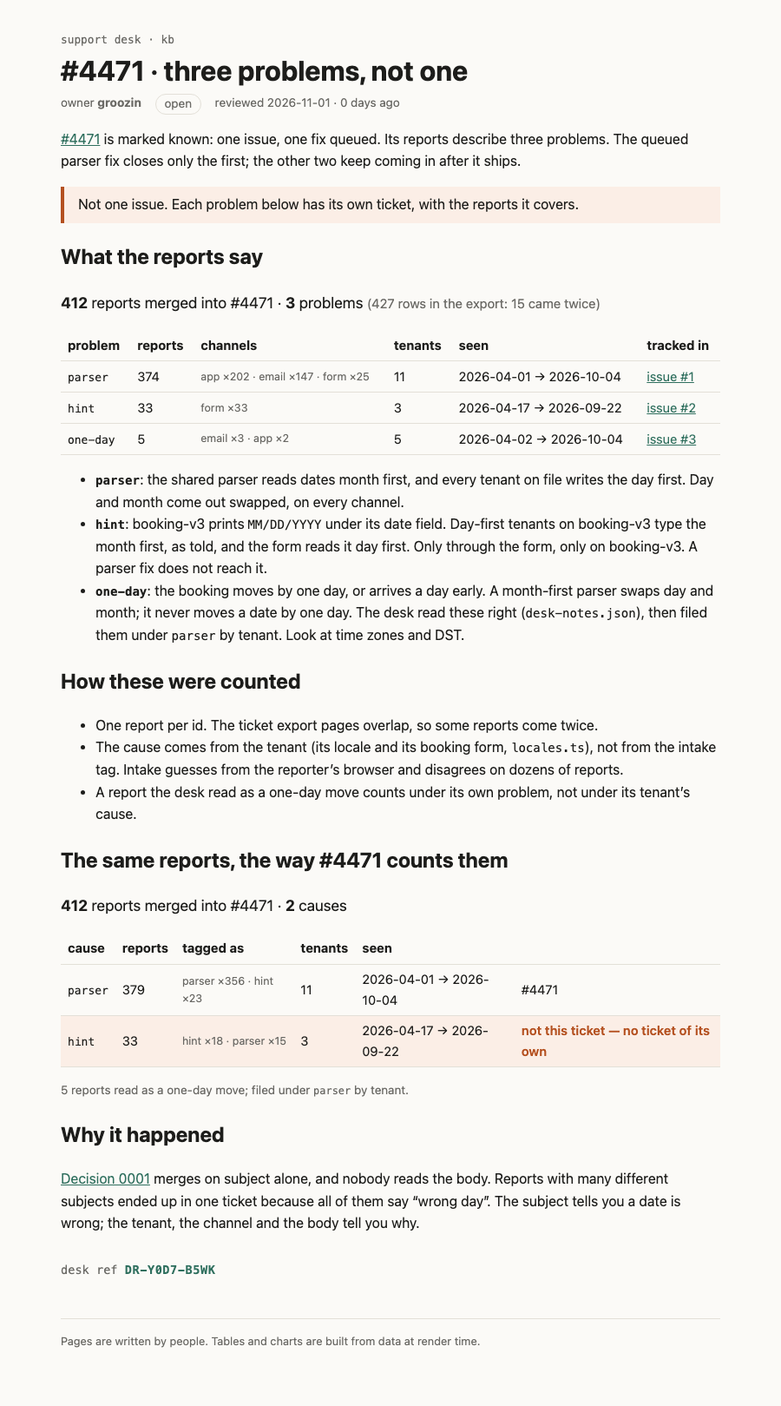
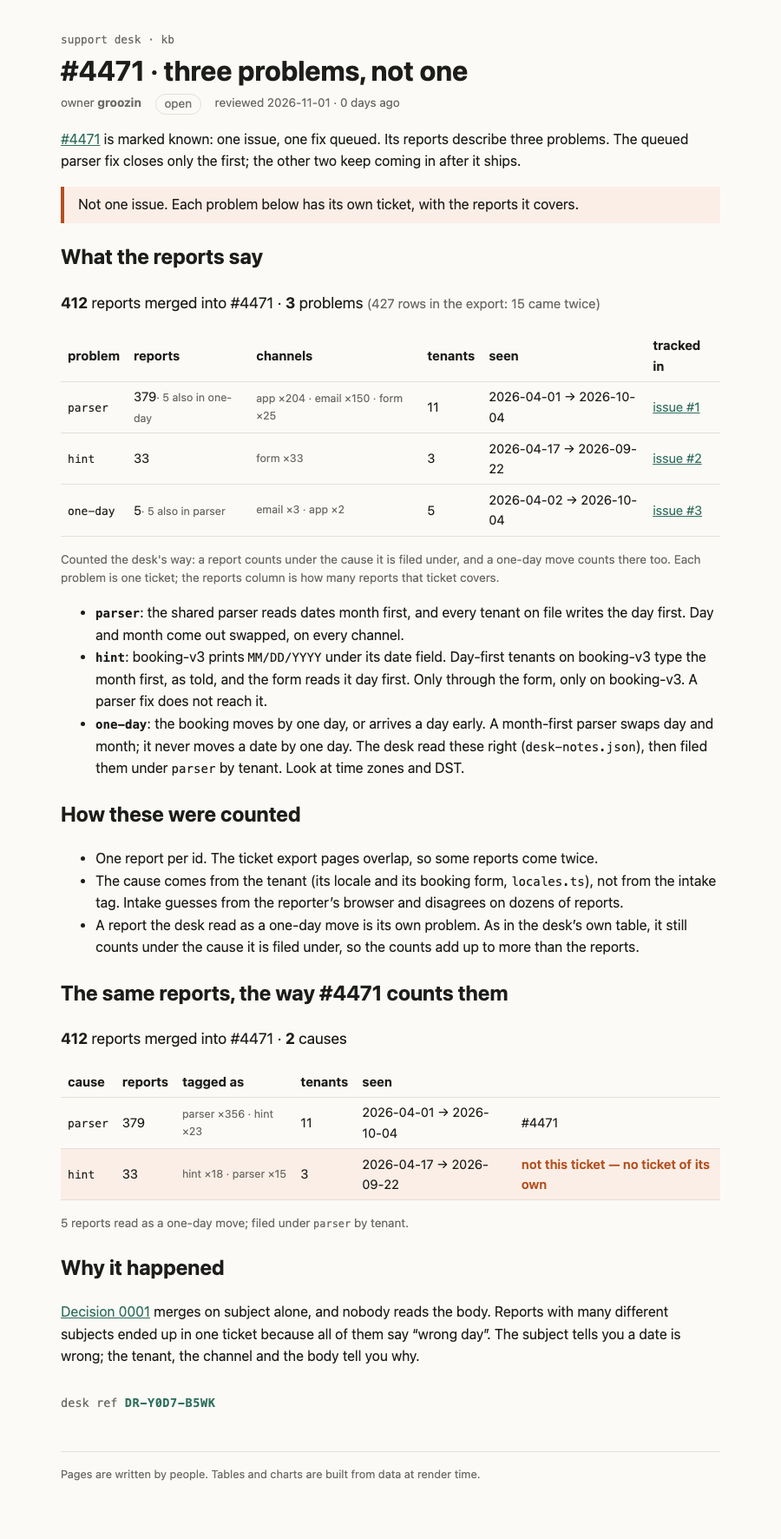
Count #4471 problems the desk's way
One-day moves count under the cause they are filed under, as in the
desk's cause table: parser 379, hint 33, one-day 5.

diff --git a/build/kb/incidents/4471-problems.html b/build/kb/incidents/4471-problems.html
@@ -9,11 +9,11 @@
 		<link href="../../_app/immutable/chunks/CptVIHXj.js" rel="modulepreload">
 		<link href="../../_app/immutable/chunks/CHfFqfNT.js" rel="modulepreload">
 		<link href="../../_app/immutable/chunks/DQG8lHS1.js" rel="modulepreload">
-		<link href="../../_app/immutable/entry/app.Dz3oU8I0.js" rel="modulepreload">
+		<link href="../../_app/immutable/entry/app.CgjuMFff.js" rel="modulepreload">
 		<link href="../../_app/immutable/nodes/0.Izv2btRW.js" rel="modulepreload">
 		<link href="../../_app/immutable/chunks/DK3Fl9T5.js" rel="modulepreload">
-		<link href="../../_app/immutable/nodes/5.UaG6pN5g.js" rel="modulepreload">
-		<link href="../../_app/immutable/chunks/i8rQyJho.js" rel="modulepreload">
+		<link href="../../_app/immutable/nodes/5.DzETtDwc.js" rel="modulepreload">
+		<link href="../../_app/immutable/chunks/M1KnXfoc.js" rel="modulepreload">
 		<link href="../../_app/immutable/chunks/DkoUumqI.js" rel="modulepreload">
 		<link href="../../_app/immutable/chunks/gCVyuZ4b.js" rel="modulepreload">
 		<link href="../../_app/immutable/chunks/DcZ9TEUN.js" rel="modulepreload">
@@ -25,28 +25,30 @@
   </head>
   <body data-sveltekit-preload-data="hover">
     <div style="display: contents"><!--[--><!--[--><!--[0--><!--[--><!--[--><!--[-1--><!--[--><div class="kb svelte-e2jw2j"><header><a class="crumb svelte-e2jw2j" href="/kb">support desk · kb</a> <h1 class="svelte-e2jw2j">#4471 · three problems, not one</h1> <p class="meta svelte-e2jw2j"><span>owner <b>groozin</b></span> <span class="status open svelte-e2jw2j">open</span> <span class="svelte-e2jw2j">reviewed 2026-11-01 · 0 days ago</span></p></header> <!--[-1--><!--]--> <main><p><a href="/kb/incidents/4471">#4471</a> is marked known: one issue, one fix queued. Its reports describe three
-problems. The queued parser fix closes only the first; the other two keep coming in after it ships.</p> <aside class="warn svelte-17bri61"><!---->Not one issue. Each problem below has its own ticket, with the reports it covers.<!----></aside><!----> <h2>What the reports say</h2> <p class="sum svelte-1op6c6"><strong>412</strong> reports merged into #4471 · <strong>3</strong> problems <!--[0--><span class="muted svelte-1op6c6">(427 rows in the export: 15 came twice)</span><!--]--></p> <table><thead><tr><th>problem</th><th>reports</th><th>channels</th><th>tenants</th><th>seen</th><th>tracked in</th></tr></thead><tbody><!--[--><tr><td><code>parser</code></td><td>374</td><td class="muted svelte-1op6c6">app ×202 · email ×147 · form ×25</td><td>11</td><td>2026-04-01 → 2026-10-04</td><td><!--[0--><a href="https://github.com/groozin/s01e03-what-it-shows/issues/1">issue #1</a><!--]--></td></tr><tr><td><code>hint</code></td><td>33</td><td class="muted svelte-1op6c6">form ×33</td><td>3</td><td>2026-04-17 → 2026-09-22</td><td><!--[0--><a href="https://github.com/groozin/s01e03-what-it-shows/issues/2">issue #2</a><!--]--></td></tr><tr><td><code>one-day</code></td><td>5</td><td class="muted svelte-1op6c6">email ×3 · app ×2</td><td>5</td><td>2026-04-02 → 2026-10-04</td><td><!--[0--><a href="https://github.com/groozin/s01e03-what-it-shows/issues/3">issue #3</a><!--]--></td></tr><!--]--></tbody></table><!----> <ul><li><strong><code>parser</code></strong>: the shared parser reads dates month first, and every tenant on file writes the
+problems. The queued parser fix closes only the first; the other two keep coming in after it ships.</p> <aside class="warn svelte-17bri61"><!---->Not one issue. Each problem below has its own ticket, with the reports it covers.<!----></aside><!----> <h2>What the reports say</h2> <p class="sum svelte-1op6c6"><strong>412</strong> reports merged into #4471 · <strong>3</strong> problems <!--[0--><span class="muted svelte-1op6c6">(427 rows in the export: 15 came twice)</span><!--]--></p> <table><thead><tr><th>problem</th><th>reports</th><th>channels</th><th>tenants</th><th>seen</th><th>tracked in</th></tr></thead><tbody><!--[--><tr><td><code>parser</code></td><td>379<!--[0--><span class="muted svelte-1op6c6">· 5 also in one-day</span><!--]--></td><td class="muted svelte-1op6c6">app ×204 · email ×150 · form ×25</td><td>11</td><td>2026-04-01 → 2026-10-04</td><td><!--[0--><a href="https://github.com/groozin/s01e03-what-it-shows/issues/1">issue #1</a><!--]--></td></tr><tr><td><code>hint</code></td><td>33<!--[-1--><!--]--></td><td class="muted svelte-1op6c6">form ×33</td><td>3</td><td>2026-04-17 → 2026-09-22</td><td><!--[0--><a href="https://github.com/groozin/s01e03-what-it-shows/issues/2">issue #2</a><!--]--></td></tr><tr><td><code>one-day</code></td><td>5<!--[0--><span class="muted svelte-1op6c6">· 5 also in parser</span><!--]--></td><td class="muted svelte-1op6c6">email ×3 · app ×2</td><td>5</td><td>2026-04-02 → 2026-10-04</td><td><!--[0--><a href="https://github.com/groozin/s01e03-what-it-shows/issues/3">issue #3</a><!--]--></td></tr><!--]--></tbody></table> <p class="muted svelte-1op6c6">Counted the desk's way: a report counts under the cause it is filed under, and a one-day move counts there
+  too. Each problem is one ticket; the reports column is how many reports that ticket covers.</p><!----> <ul><li><strong><code>parser</code></strong>: the shared parser reads dates month first, and every tenant on file writes the
 day first. Day and month come out swapped, on every channel.</li> <li><strong><code>hint</code></strong>: booking-v3 prints <code>MM/DD/YYYY</code> under its date field. Day-first tenants on booking-v3
 type the month first, as told, and the form reads it day first. Only through the form, only on
 booking-v3. A parser fix does not reach it.</li> <li><strong><code>one-day</code></strong>: the booking moves by one day, or arrives a day early. A month-first parser swaps
 day and month; it never moves a date by one day. The desk read these right
 (<code>desk-notes.json</code>), then filed them under <code>parser</code> by tenant. Look at time zones and DST.</li></ul> <h2>How these were counted</h2> <ul><li>One report per id. The ticket export pages overlap, so some reports come twice.</li> <li>The cause comes from the tenant (its locale and its booking form, <code>locales.ts</code>), not from the
-intake tag. Intake guesses from the reporter’s browser and disagrees on dozens of reports.</li> <li>A report the desk read as a one-day move counts under its own problem, not under its tenant’s cause.</li></ul> <h2>The same reports, the way #4471 counts them</h2> <p class="sum svelte-12oyimm"><strong>412</strong> reports merged into #4471 · <strong>2</strong> causes</p> <table><thead><tr><th>cause</th><th>reports</th><th>tagged as</th><th>tenants</th><th>seen</th><th></th></tr></thead><tbody><!--[--><tr class="svelte-12oyimm"><td class="svelte-12oyimm"><code>parser</code></td><td class="svelte-12oyimm">379</td><td class="tags svelte-12oyimm">parser ×356 · hint ×23</td><td class="svelte-12oyimm">11</td><td class="svelte-12oyimm">2026-04-01 → 2026-10-04</td><td class="svelte-12oyimm">#4471</td></tr><tr class="svelte-12oyimm wrong"><td class="svelte-12oyimm"><code>hint</code></td><td class="svelte-12oyimm">33</td><td class="tags svelte-12oyimm">hint ×18 · parser ×15</td><td class="svelte-12oyimm">3</td><td class="svelte-12oyimm">2026-04-17 → 2026-09-22</td><td class="svelte-12oyimm">not this ticket — no ticket of its own</td></tr><!--]--></tbody></table> <!--[--><!--[0--><p class="note svelte-12oyimm">5 reports read as a one-day move; filed under <code>parser</code> by tenant.</p><!--]--><!--[-1--><!--]--><!--]--><!----> <h2>Why it happened</h2> <p><a href="/kb/decisions/0001-dedupe-by-subject">Decision 0001</a> merges on subject alone, and nobody reads the
+intake tag. Intake guesses from the reporter’s browser and disagrees on dozens of reports.</li> <li>A report the desk read as a one-day move is its own problem. As in the desk’s own table, it still
+counts under the cause it is filed under, so the counts add up to more than the reports.</li></ul> <h2>The same reports, the way #4471 counts them</h2> <p class="sum svelte-12oyimm"><strong>412</strong> reports merged into #4471 · <strong>2</strong> causes</p> <table><thead><tr><th>cause</th><th>reports</th><th>tagged as</th><th>tenants</th><th>seen</th><th></th></tr></thead><tbody><!--[--><tr class="svelte-12oyimm"><td class="svelte-12oyimm"><code>parser</code></td><td class="svelte-12oyimm">379</td><td class="tags svelte-12oyimm">parser ×356 · hint ×23</td><td class="svelte-12oyimm">11</td><td class="svelte-12oyimm">2026-04-01 → 2026-10-04</td><td class="svelte-12oyimm">#4471</td></tr><tr class="svelte-12oyimm wrong"><td class="svelte-12oyimm"><code>hint</code></td><td class="svelte-12oyimm">33</td><td class="tags svelte-12oyimm">hint ×18 · parser ×15</td><td class="svelte-12oyimm">3</td><td class="svelte-12oyimm">2026-04-17 → 2026-09-22</td><td class="svelte-12oyimm">not this ticket — no ticket of its own</td></tr><!--]--></tbody></table> <!--[--><!--[0--><p class="note svelte-12oyimm">5 reports read as a one-day move; filed under <code>parser</code> by tenant.</p><!--]--><!--[-1--><!--]--><!--]--><!----> <h2>Why it happened</h2> <p><a href="/kb/decisions/0001-dedupe-by-subject">Decision 0001</a> merges on subject alone, and nobody reads the
 body. Reports with many different subjects ended up in one ticket because all of them say “wrong day”. The
 subject tells you a date is wrong; the tenant, the channel and the body tell you why.</p> <!--[0--><p class="stamp svelte-1280m42">desk ref <b class="svelte-1280m42">DR-Y0D7-B5WK</b></p><!--]--><!----><!----></main> <footer class="svelte-e2jw2j">Pages are written by people. Tables and charts are built from data at render time.</footer></div><!--]--><!--]--><!--]--><!----><!--]--><!--]--><!--]--><!----> <!--[-1--><!--]--><!--]-->
 			
 			<script>
 				{
-					__sveltekit_1n211x1 = {
+					__sveltekit_up5isf = {
 						base: new URL("../..", location).pathname.slice(0, -1),
-						version: "1793573833173"
+						version: "1793573920581"
 					};
 
 					const element = document.currentScript.parentElement;
 
 					import("../../_app/immutable/entry/start.D1HzdfF7.js").then(async (kit) => {
-						kit.init(__sveltekit_1n211x1);
-						const app = await import("../../_app/immutable/entry/app.Dz3oU8I0.js");
+						kit.init(__sveltekit_up5isf);
+						const app = await import("../../_app/immutable/entry/app.CgjuMFff.js");
 						kit.start(app, element, {
 							node_ids: [0, 5],
 							data: [null,null],

diff --git a/build/_app/immutable/chunks/M1KnXfoc.js b/build/_app/immutable/chunks/M1KnXfoc.js
@@ -1,0 +1,12 @@
+import{t as e}from"./DK3Fl9T5.js";import{E as t,F as n,H as r,I as i,K as a,L as o,N as s,O as c,R as l,S as u,T as d,U as f,W as p,_ as m,c as h,h as g,k as _,n as v,q as y,r as b,t as x,w as S}from"./CHfFqfNT.js";import{t as C}from"./DkoUumqI.js";import{n as w,r as T,t as E}from"./gCVyuZ4b.js";import{a as D,l as O,r as k,t as A}from"./DcZ9TEUN.js";function j(e,t){let n=t.map(e=>e.receivedAt.slice(0,10)).sort();return{problem:e,reports:t,tenants:new Set(t.map(e=>e.tenant)).size,channels:t.reduce((e,t)=>({...e,[t.channel]:(e[t.channel]??0)+1}),{}),firstSeen:n[0],lastSeen:n[n.length-1]}}function M(e,t,n){let r=e.filter(e=>n.includes(e.id)),i=D(e,t).map(e=>({...j(e.cause,e.reports),alsoIn:[{problem:`one-day`,count:e.reports.filter(e=>n.includes(e.id)).length}]})),a=r.length?[{...j(`one-day`,r),alsoIn:i.map(e=>({problem:e.problem,count:e.alsoIn[0].count}))}]:[];return[...i,...a].map(e=>({...e,alsoIn:e.alsoIn.filter(e=>e.count>0)}))}var N=t(`<span class="muted svelte-1op6c6"> </span>`),P=t(`<a> </a>`),F=t(`<tr><td><code> </code></td><td> <!></td><td class="muted svelte-1op6c6"> </td><td> </td><td> </td><td><!></td></tr>`),I=t(`<p class="sum svelte-1op6c6"><strong> </strong> <strong> </strong> <!></p> <table><thead><tr><th>problem</th><th>reports</th><th>channels</th><th>tenants</th><th>seen</th><th>tracked in</th></tr></thead><tbody></tbody></table> <p class="muted svelte-1op6c6">Counted the desk's way: a report counts under the cause it is filed under, and a one-day move counts there
+  too. Each problem is one ticket; the reports column is how many reports that ticket covers.</p>`,1);function L(e,t){p(t,!0);let d=v(t,`issues`,19,()=>({})),b=r(()=>T.filter(e=>e.mergedInto===t.ticket)),x=r(()=>O(_(b))),C=r(()=>M(_(x),k,w.oneDayMove)),E=e=>Object.entries(e.channels).sort((e,t)=>t[1]-e[1]).map(([e,t])=>`${e} ×${t}`).join(` · `);var D=I(),A=i(D),j=n(A),L=o(j,!0),R=l(j),z=l(R),B=o(z,!0),V=l(z),H=l(V),U=e=>{var t=N(),n=o(t);s(()=>u(n,`(${_(b).length??``} rows in the export: ${_(b).length-_(x).length} came twice)`)),S(e,t)};m(H,e=>{_(b).length!==_(x).length&&e(U)}),y(A);var W=l(A,2),G=l(n(W));g(G,21,()=>_(C),e=>e.problem,(e,t)=>{var r=F(),i=n(r),a=n(i),f=o(a,!0);y(i);var p=l(i),g=n(p,!0),v=l(g),b=e=>{var n=N(),r=o(n);s(e=>u(r,`· ${e??``}`),[()=>_(t).alsoIn.map(e=>`${e.count} also in ${e.problem}`).join(`, `)]),S(e,n)};m(v,e=>{_(t).alsoIn.length&&e(b)}),y(p);var x=l(p),C=o(x,!0),w=l(x),T=o(w,!0),D=l(w),O=o(D),k=l(D),A=n(k),j=e=>{var n=P(),r=o(n,!0);s(e=>{h(n,`href`,d()[_(t).problem]),u(r,e)},[()=>d()[_(t).problem]?.replace(/^.*\/issues\//,`issue #`)]),S(e,n)},M=e=>{var t=c(`—`);S(e,t)};m(A,e=>{d()[_(t).problem]?e(j):e(M,-1)}),y(k),y(r),s(e=>{u(f,_(t).problem),u(g,_(t).reports.length),u(C,e),u(T,_(t).tenants),u(O,`${_(t).firstSeen??``} → ${_(t).lastSeen??``}`)},[()=>E(_(t))]),S(e,r)}),y(G),y(W),a(2),s(()=>{u(L,_(x).length),u(R,` reports merged into #${t.ticket??``} · `),u(B,_(C).length),u(V,` ${_(C).length===1?`problem`:`problems`} `)}),S(e,D),f()}var R=`0123456789ABCDEFGHJKMNPQRSTVWXYZ`;function z(e,t){let n=t>>>0;for(let t=0;t<e.length;t++)n^=e.charCodeAt(t),n=Math.imul(n,16777619)>>>0;return n}function B(e){let t=e.trim(),n=z(t,2166136261),r=z(t,2654435769),i=BigInt(n)<<8n|BigInt(r&255),a=``;for(let e=0;e<8;e++)a=R[Number(i&31n)]+a,i>>=5n;return`DR-${a.slice(0,4)}-${a.slice(4)}`}var V=t(`<p class="stamp svelte-1280m42">desk ref <b class="svelte-1280m42"> </b></p>`),H=t(`<p class="stamp missing svelte-1280m42">no desk ref: this page isn't signed (no <code>signature</code> in its frontmatter)</p>`);function U(e,t){p(t,!0);let a=r(()=>t.signature?B(t.signature):null);var c=d(),h=i(c),g=e=>{var t=V(),r=l(n(t)),i=o(r,!0);y(t),s(()=>u(i,_(a))),S(e,t)},v=e=>{var t=H();S(e,t)};m(h,e=>{_(a)?e(g):e(v,-1)}),S(e,c),f()}var W=e({default:()=>$,metadata:()=>G}),G={layout:`runbook`,title:`#4471 · three problems, not one`,owner:`groozin`,status:`open`,reviewed:`2026-11-01T00:00:00.000Z`,signature:`groozin`},{layout:K,title:q,owner:J,status:Y,reviewed:X,signature:Z}=G,Q=t(`<p><a href="/kb/incidents/4471">#4471</a> is marked known: one issue, one fix queued. Its reports describe three
+problems. The queued parser fix closes only the first; the other two keep coming in after it ships.</p> <!> <h2>What the reports say</h2> <!> <ul><li><strong><code>parser</code></strong>: the shared parser reads dates month first, and every tenant on file writes the
+day first. Day and month come out swapped, on every channel.</li> <li><strong><code>hint</code></strong>: booking-v3 prints <code>MM/DD/YYYY</code> under its date field. Day-first tenants on booking-v3
+type the month first, as told, and the form reads it day first. Only through the form, only on
+booking-v3. A parser fix does not reach it.</li> <li><strong><code>one-day</code></strong>: the booking moves by one day, or arrives a day early. A month-first parser swaps
+day and month; it never moves a date by one day. The desk read these right
+(<code>desk-notes.json</code>), then filed them under <code>parser</code> by tenant. Look at time zones and DST.</li></ul> <h2>How these were counted</h2> <ul><li>One report per id. The ticket export pages overlap, so some reports come twice.</li> <li>The cause comes from the tenant (its locale and its booking form, <code>locales.ts</code>), not from the
+intake tag. Intake guesses from the reporter’s browser and disagrees on dozens of reports.</li> <li>A report the desk read as a one-day move is its own problem. As in the desk’s own table, it still
+counts under the cause it is filed under, so the counts add up to more than the reports.</li></ul> <h2>The same reports, the way #4471 counts them</h2> <!> <h2>Why it happened</h2> <p><a href="/kb/decisions/0001-dedupe-by-subject">Decision 0001</a> merges on subject alone, and nobody reads the
+body. Reports with many different subjects ended up in one ticket because all of them say “wrong day”. The
+subject tells you a date is wrong; the tenant, the channel and the body tell you why.</p> <!>`,1);function $(e,t){let n=x(t,[`children`,`$$slots`,`$$events`,`$$legacy`]),r=`https://github.com/groozin/s01e03-what-it-shows/issues`,o={parser:`${r}/1`,hint:`${r}/2`,"one-day":`${r}/3`};C(e,b(()=>n,()=>G,{children:(e,t)=>{var n=Q(),r=l(i(n),2);A(r,{kind:`warn`,children:(e,t)=>{a();var n=c(`Not one issue. Each problem below has its own ticket, with the reports it covers.`);S(e,n)},$$slots:{default:!0}});var s=l(r,4);L(s,{ticket:4471,get issues(){return o}});var u=l(s,10);E(u,{ticket:4471}),U(l(u,6),{get signature(){return Z}}),S(e,n)},$$slots:{default:!0}}))}export{$ as n,W as t};

diff --git a/src/lib/kb/problems.ts b/src/lib/kb/problems.ts
@@ -1,14 +1,10 @@
-// What #4471 holds once each report is read for the problem it describes, not the ticket it was merged into.
-// causes.ts places a report by tenant; a report the desk read as a one-day move is a different bug,
-// whatever its tenant: a month-first parser swaps day and month, it never moves a date by one day.
-import { causeOf, type Report, type Tenant } from '#lib/kb/causes';
+// What #4471 holds, counted the desk's way: each report under the cause it is filed under (causes.ts),
+// and the reports the desk read as a one-day move (desk-notes.json) as a problem of their own. A month-first
+// parser swaps day and month; it never moves a date by one day. Like CauseTable, a one-day move still
+// counts where it is filed, so it is footnoted there too.
+import { groupByCause, type Report, type Tenant } from '#lib/kb/causes';
 
 export type Problem = 'parser' | 'hint' | 'one-day' | 'unplaced';
-
-export function problemOf(r: Report, t: Tenant | undefined, oneDayMove: readonly string[]): Problem {
-  if (oneDayMove.includes(r.id)) return 'one-day';
-  return causeOf(r, t) ?? 'unplaced';
-}
 
 export type ProblemGroup = {
   problem: Problem;
@@ -17,29 +13,34 @@ export type ProblemGroup = {
   channels: Record<string, number>;
   firstSeen: string;
   lastSeen: string;
+  // How many of these reports are also counted under another problem.
+  alsoIn: { problem: Problem; count: number }[];
 };
+
+function group(problem: Problem, rs: Report[]): Omit<ProblemGroup, 'alsoIn'> {
+  const days = rs.map((r) => r.receivedAt.slice(0, 10)).sort();
+  return {
+    problem,
+    reports: rs,
+    tenants: new Set(rs.map((r) => r.tenant)).size,
+    channels: rs.reduce<Record<string, number>>((n, r) => ({ ...n, [r.channel]: (n[r.channel] ?? 0) + 1 }), {}),
+    firstSeen: days[0],
+    lastSeen: days[days.length - 1],
+  };
+}
 
 export function groupByProblem(
   reports: Report[],
   tenantOf: (r: Report) => Tenant | undefined,
   oneDayMove: readonly string[],
 ): ProblemGroup[] {
-  const byProblem = new Map<Problem, Report[]>();
-  for (const r of reports) {
-    const p = problemOf(r, tenantOf(r), oneDayMove);
-    byProblem.set(p, [...(byProblem.get(p) ?? []), r]);
-  }
-  return [...byProblem.entries()]
-    .map(([problem, rs]) => {
-      const days = rs.map((r) => r.receivedAt.slice(0, 10)).sort();
-      return {
-        problem,
-        reports: rs,
-        tenants: new Set(rs.map((r) => r.tenant)).size,
-        channels: rs.reduce<Record<string, number>>((n, r) => ({ ...n, [r.channel]: (n[r.channel] ?? 0) + 1 }), {}),
-        firstSeen: days[0],
-        lastSeen: days[days.length - 1],
-      };
-    })
-    .sort((a, b) => b.reports.length - a.reports.length);
+  const moved = reports.filter((r) => oneDayMove.includes(r.id));
+  const causes = groupByCause(reports, tenantOf).map((g) => ({
+    ...group(g.cause, g.reports),
+    alsoIn: [{ problem: 'one-day' as Problem, count: g.reports.filter((r) => oneDayMove.includes(r.id)).length }],
+  }));
+  const oneDay = moved.length
+    ? [{ ...group('one-day', moved), alsoIn: causes.map((g) => ({ problem: g.problem, count: g.alsoIn[0].count })) }]
+    : [];
+  return [...causes, ...oneDay].map((g) => ({ ...g, alsoIn: g.alsoIn.filter((a) => a.count > 0) }));
 }

diff --git a/build/_app/immutable/nodes/2.DnsxrOqq.js b/build/_app/immutable/nodes/2.DnsxrOqq.js
@@ -1,0 +1,2 @@
+import{E as e,F as t,I as n,K as r,L as i,N as a,R as o,S as s,U as c,W as l,c as u,d,h as f,i as p,k as m,q as h,r as g,t as _,w as v}from"../chunks/CHfFqfNT.js";import{n as y,r as b,t as x}from"../chunks/DkoUumqI.js";import{t as S}from"../chunks/DCOWSXCS.js";import{t as C}from"../chunks/BaKnMkZM.js";import{t as w}from"../chunks/M1KnXfoc.js";import{t as T}from"../chunks/Ce0JHbCm.js";var E=e(`<tr><td><a> </a></td><td> </td><td> </td><td> </td></tr>`),D=e(`<table><thead><tr><th>page</th><th>owner</th><th>status</th><th>reviewed</th></tr></thead><tbody></tbody></table>`);function O(e,n){l(n,!1);let r=Object.entries(Object.assign({"/src/routes/kb/decisions/0001-dedupe-by-subject/+page.svx":S,"/src/routes/kb/incidents/4471/+page.svx":C,"/src/routes/kb/incidents/4471-problems/+page.svx":w,"/src/routes/kb/triage/dedupe/+page.svx":T})).map(([e,t])=>({href:e.replace(`/src/routes`,``).replace(`/+page.svx`,``),...t.metadata})).sort((e,t)=>e.href.localeCompare(t.href));p();var g=D(),_=o(t(g));f(_,5,()=>r,e=>e.href,(e,n)=>{var r=E(),c=t(r),l=t(c),f=i(l,!0);h(c);var p=o(c),g=i(p,!0),_=o(p),x=i(_,!0),S=o(_);let C;var w=i(S,!0);h(r),a((e,t)=>{u(l,`href`,m(n).href),s(f,m(n).title),s(g,m(n).owner),s(x,m(n).status),C=d(S,1,`svelte-tbc1ha`,null,C,{stale:e}),s(w,t)},[()=>y(m(n).reviewed)>180,()=>b(m(n).reviewed)]),v(e,r)}),h(_),h(g),v(e,g),c()}var k={layout:`runbook`,title:`Support knowledge base`,owner:`support desk`,status:`living`,reviewed:`2026-09-28T00:00:00.000Z`},{layout:A,title:j,owner:M,status:N,reviewed:P}=k,F=e(`<p>What the support desk knows, kept next to the code that knows it. One desk, every product: <code>sched-prod</code> (calendar invites for about 300k people) and the rest. When something breaks, the reports land here first.</p> <p>Start with <a href="/kb/triage/dedupe">triage</a> if you are new on the desk.</p> <h2>Pages</h2> <!> <h2>Writing a page</h2> <p>Keep the words here and the logic in <code>src/lib</code>. A number that can be computed should be
+computed by a component, not typed into a paragraph.</p>`,1);function I(e,t){let i=_(t,[`children`,`$$slots`,`$$events`,`$$legacy`]);x(e,g(()=>i,()=>k,{children:(e,t)=>{var i=F();O(o(n(i),6),{}),r(4),v(e,i)},$$slots:{default:!0}}))}export{I as component};

diff --git a/build/kb.html b/build/kb.html
@@ -9,16 +9,16 @@
 		<link href="./_app/immutable/chunks/CptVIHXj.js" rel="modulepreload">
 		<link href="./_app/immutable/chunks/CHfFqfNT.js" rel="modulepreload">
 		<link href="./_app/immutable/chunks/DQG8lHS1.js" rel="modulepreload">
-		<link href="./_app/immutable/entry/app.Dz3oU8I0.js" rel="modulepreload">
+		<link href="./_app/immutable/entry/app.CgjuMFff.js" rel="modulepreload">
 		<link href="./_app/immutable/nodes/0.Izv2btRW.js" rel="modulepreload">
 		<link href="./_app/immutable/chunks/DK3Fl9T5.js" rel="modulepreload">
-		<link href="./_app/immutable/nodes/2.DWGWOR8Q.js" rel="modulepreload">
+		<link href="./_app/immutable/nodes/2.DnsxrOqq.js" rel="modulepreload">
 		<link href="./_app/immutable/chunks/DkoUumqI.js" rel="modulepreload">
 		<link href="./_app/immutable/chunks/DCOWSXCS.js" rel="modulepreload">
 		<link href="./_app/immutable/chunks/BaKnMkZM.js" rel="modulepreload">
 		<link href="./_app/immutable/chunks/gCVyuZ4b.js" rel="modulepreload">
 		<link href="./_app/immutable/chunks/DcZ9TEUN.js" rel="modulepreload">
-		<link href="./_app/immutable/chunks/i8rQyJho.js" rel="modulepreload">
+		<link href="./_app/immutable/chunks/M1KnXfoc.js" rel="modulepreload">
 		<link href="./_app/immutable/chunks/Ce0JHbCm.js" rel="modulepreload">
 		<!--e2jw2j--><!----><title>Support knowledge base · support kb</title>
 		<link href="./_app/immutable/assets/runbook.COyw0cbZ.css" rel="stylesheet">
@@ -35,16 +35,16 @@ computed by a component, not typed into a paragraph.</p><!----></main> <footer c
 			
 			<script>
 				{
-					__sveltekit_1n211x1 = {
+					__sveltekit_up5isf = {
 						base: new URL(".", location).pathname.slice(0, -1),
-						version: "1793573833173"
+						version: "1793573920581"
 					};
 
 					const element = document.currentScript.parentElement;
 
 					import("./_app/immutable/entry/start.D1HzdfF7.js").then(async (kit) => {
-						kit.init(__sveltekit_1n211x1);
-						const app = await import("./_app/immutable/entry/app.Dz3oU8I0.js");
+						kit.init(__sveltekit_up5isf);
+						const app = await import("./_app/immutable/entry/app.CgjuMFff.js");
 						kit.start(app, element, {
 							node_ids: [0, 2],
 							data: [null,null],

diff --git a/build/_app/immutable/entry/app.CgjuMFff.js b/build/_app/immutable/entry/app.CgjuMFff.js
@@ -1,0 +1,2 @@
+const __vite__mapDeps=(i,m=__vite__mapDeps,d=(m.f||(m.f=["../nodes/0.Izv2btRW.js","../chunks/DK3Fl9T5.js","../chunks/CHfFqfNT.js","../nodes/1.xQrPtl8H.js","../chunks/DQG8lHS1.js","./payload.DSmR2FwN.js","../nodes/2.DnsxrOqq.js","../chunks/DkoUumqI.js","../assets/runbook.COyw0cbZ.css","../chunks/DCOWSXCS.js","../chunks/BaKnMkZM.js","../chunks/gCVyuZ4b.js","../chunks/DcZ9TEUN.js","../assets/Callout.AbLv9dM_.css","../assets/CauseTable.DuKfINX_.css","../assets/_page.BwRNheVv.css","../chunks/M1KnXfoc.js","../assets/_page.YBHwbmUK.css","../chunks/Ce0JHbCm.js","../assets/_page.DO6Yid7X.css","../assets/2.Bt0MwIZg.css","../nodes/3.utlB90Ku.js","../nodes/4.BCZ31ns2.js","../nodes/5.DzETtDwc.js","../nodes/6.BZRQ87Zk.js"])))=>i.map(i=>d[i]);
+import{t as e}from"../chunks/CRzLMJPS.js";var t={},n=[()=>e(()=>import(`../nodes/0.Izv2btRW.js`),__vite__mapDeps([0,1,2]),import.meta.url),()=>e(()=>import(`../nodes/1.xQrPtl8H.js`),__vite__mapDeps([3,2,4,5]),import.meta.url),()=>e(()=>import(`../nodes/2.DnsxrOqq.js`),__vite__mapDeps([6,2,7,8,9,1,10,11,12,13,14,15,16,17,18,19,20]),import.meta.url),()=>e(()=>import(`../nodes/3.utlB90Ku.js`),__vite__mapDeps([21,9,1,2,7,8]),import.meta.url),()=>e(()=>import(`../nodes/4.BCZ31ns2.js`),__vite__mapDeps([22,10,1,2,7,8,11,12,13,14,15]),import.meta.url),()=>e(()=>import(`../nodes/5.DzETtDwc.js`),__vite__mapDeps([23,16,1,2,7,8,11,12,13,14,17]),import.meta.url),()=>e(()=>import(`../nodes/6.BZRQ87Zk.js`),__vite__mapDeps([24,18,1,2,7,8,12,13,19]),import.meta.url)],r=[],i={"/kb":[2],"/kb/decisions/0001-dedupe-by-subject":[3],"/kb/incidents/4471-problems":[5],"/kb/incidents/4471":[4],"/kb/triage/dedupe":[6]},a={handleError:(({kind:e,error:t})=>{e===`unknown`&&console.error(t)}),reroute:(()=>{}),transport:{}},o=Object.fromEntries(Object.entries(a.transport).map(([e,t])=>[e,t.decode])),s=Object.fromEntries(Object.entries(a.transport).map(([e,t])=>[e,t.encode])),c=!1,l=(e,t)=>o[e](t),u=()=>e(()=>import(`../chunks/Bjy-W4x2.js`).then(e=>e.default),[],import.meta.url);export{l as decode,o as decoders,i as dictionary,s as encoders,u as get_error_template,c as hash,a as hooks,t as matchers,n as nodes,r as server_loads};

diff --git a/build/kb/decisions/0001-dedupe-by-subject.html b/build/kb/decisions/0001-dedupe-by-subject.html
@@ -9,7 +9,7 @@
 		<link href="../../_app/immutable/chunks/CptVIHXj.js" rel="modulepreload">
 		<link href="../../_app/immutable/chunks/CHfFqfNT.js" rel="modulepreload">
 		<link href="../../_app/immutable/chunks/DQG8lHS1.js" rel="modulepreload">
-		<link href="../../_app/immutable/entry/app.Dz3oU8I0.js" rel="modulepreload">
+		<link href="../../_app/immutable/entry/app.CgjuMFff.js" rel="modulepreload">
 		<link href="../../_app/immutable/nodes/0.Izv2btRW.js" rel="modulepreload">
 		<link href="../../_app/immutable/chunks/DK3Fl9T5.js" rel="modulepreload">
 		<link href="../../_app/immutable/nodes/3.utlB90Ku.js" rel="modulepreload">
@@ -26,16 +26,16 @@ engineering merges them later.</li></ul><!----></main> <footer class="svelte-e2j
 			
 			<script>
 				{
-					__sveltekit_1n211x1 = {
+					__sveltekit_up5isf = {
 						base: new URL("../..", location).pathname.slice(0, -1),
-						version: "1793573833173"
+						version: "1793573920581"
 					};
 
 					const element = document.currentScript.parentElement;
 
 					import("../../_app/immutable/entry/start.D1HzdfF7.js").then(async (kit) => {
-						kit.init(__sveltekit_1n211x1);
-						const app = await import("../../_app/immutable/entry/app.Dz3oU8I0.js");
+						kit.init(__sveltekit_up5isf);
+						const app = await import("../../_app/immutable/entry/app.CgjuMFff.js");
 						kit.start(app, element, {
 							node_ids: [0, 3],
 							data: [null,null],

diff --git a/build/kb/incidents/4471.html b/build/kb/incidents/4471.html
@@ -9,7 +9,7 @@
 		<link href="../../_app/immutable/chunks/CptVIHXj.js" rel="modulepreload">
 		<link href="../../_app/immutable/chunks/CHfFqfNT.js" rel="modulepreload">
 		<link href="../../_app/immutable/chunks/DQG8lHS1.js" rel="modulepreload">
-		<link href="../../_app/immutable/entry/app.Dz3oU8I0.js" rel="modulepreload">
+		<link href="../../_app/immutable/entry/app.CgjuMFff.js" rel="modulepreload">
 		<link href="../../_app/immutable/nodes/0.Izv2btRW.js" rel="modulepreload">
 		<link href="../../_app/immutable/chunks/DK3Fl9T5.js" rel="modulepreload">
 		<link href="../../_app/immutable/nodes/4.BCZ31ns2.js" rel="modulepreload">
@@ -30,16 +30,16 @@ first. The fix is queued.</p> <aside class="note svelte-17bri61"><!---->Known. O
 			
 			<script>
 				{
-					__sveltekit_1n211x1 = {
+					__sveltekit_up5isf = {
 						base: new URL("../..", location).pathname.slice(0, -1),
-						version: "1793573833173"
+						version: "1793573920581"
 					};
 
 					const element = document.currentScript.parentElement;
 
 					import("../../_app/immutable/entry/start.D1HzdfF7.js").then(async (kit) => {
-						kit.init(__sveltekit_1n211x1);
-						const app = await import("../../_app/immutable/entry/app.Dz3oU8I0.js");
+						kit.init(__sveltekit_up5isf);
+						const app = await import("../../_app/immutable/entry/app.CgjuMFff.js");
 						kit.start(app, element, {
 							node_ids: [0, 4],
 							data: [null,null],

diff --git a/build/kb/triage/dedupe.html b/build/kb/triage/dedupe.html
@@ -9,7 +9,7 @@
 		<link href="../../_app/immutable/chunks/CptVIHXj.js" rel="modulepreload">
 		<link href="../../_app/immutable/chunks/CHfFqfNT.js" rel="modulepreload">
 		<link href="../../_app/immutable/chunks/DQG8lHS1.js" rel="modulepreload">
-		<link href="../../_app/immutable/entry/app.Dz3oU8I0.js" rel="modulepreload">
+		<link href="../../_app/immutable/entry/app.CgjuMFff.js" rel="modulepreload">
 		<link href="../../_app/immutable/nodes/0.Izv2btRW.js" rel="modulepreload">
 		<link href="../../_app/immutable/chunks/DK3Fl9T5.js" rel="modulepreload">
 		<link href="../../_app/immutable/nodes/6.BZRQ87Zk.js" rel="modulepreload">
@@ -29,16 +29,16 @@ anything else.<!----></aside><!----> <h2>Try it</h2> <div class="try svelte-gq0h
 			
 			<script>
 				{
-					__sveltekit_1n211x1 = {
+					__sveltekit_up5isf = {
 						base: new URL("../..", location).pathname.slice(0, -1),
-						version: "1793573833173"
+						version: "1793573920581"
 					};
 
 					const element = document.currentScript.parentElement;
 
 					import("../../_app/immutable/entry/start.D1HzdfF7.js").then(async (kit) => {
-						kit.init(__sveltekit_1n211x1);
-						const app = await import("../../_app/immutable/entry/app.Dz3oU8I0.js");
+						kit.init(__sveltekit_up5isf);
+						const app = await import("../../_app/immutable/entry/app.CgjuMFff.js");
 						kit.start(app, element, {
 							node_ids: [0, 6],
 							data: [null,null],

diff --git a/src/lib/kb/ProblemTable.svelte b/src/lib/kb/ProblemTable.svelte
@@ -33,7 +33,7 @@
     {#each groups as g (g.problem)}
       <tr>
         <td><code>{g.problem}</code></td>
-        <td>{g.reports.length}</td>
+        <td>{g.reports.length}{#if g.alsoIn.length}<span class="muted"> · {g.alsoIn.map((a) => `${a.count} also in ${a.problem}`).join(', ')}</span>{/if}</td>
         <td class="muted">{channels(g)}</td>
         <td>{g.tenants}</td>
         <td>{g.firstSeen} → {g.lastSeen}</td>
@@ -42,6 +42,9 @@
     {/each}
   </tbody>
 </table>
+
+<p class="muted">Counted the desk's way: a report counts under the cause it is filed under, and a one-day move counts there
+  too. Each problem is one ticket; the reports column is how many reports that ticket covers.</p>
 
 <style>
   .sum { font-size: 1.1rem; }

diff --git a/build/_app/immutable/nodes/5.DzETtDwc.js b/build/_app/immutable/nodes/5.DzETtDwc.js
@@ -1,0 +1,1 @@
+export{n as component}from"../chunks/M1KnXfoc.js";
